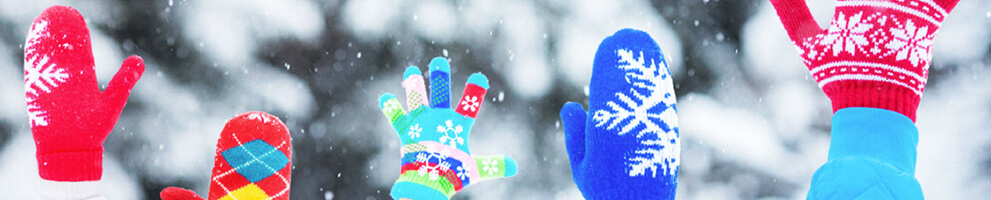
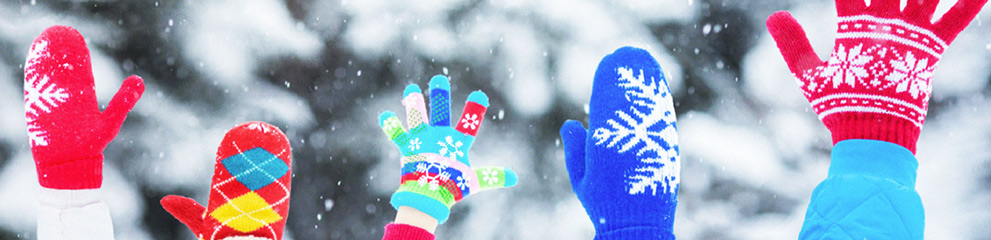
New images and small fix for slider

diff --git a/index.html b/index.html
@@ -99,46 +99,58 @@
         <div class="row justify-content-md-center">
           <div class="col-md-12 slider">
             <div class="owl-carousel">
-              <div>
+               <div>
                 <picture>
                   <source media="(max-width: 576px)" srcset="img/slide/mobile-slides/new-slide-1-576.jpg" sizes="">
-                  <!-- <source media="(max-width: 768px)" srcset="img/slide/mobile-slides/new-slide-1-768.jpg" sizes=""> -->
+                  <source media="(max-width: 767px) and (orientation: landscape)" srcset="img/slide/mobile-slides/new-slide-1-768-landscape.jpg" sizes="">
+                  <source media="(max-width: 767px)" srcset="img/slide/mobile-slides/new-slide-1-768.jpg" sizes="">
+                  <source media="(max-width: 991px) and (orientation: landscape)" srcset="img/slide/mobile-slides/new-slide-1-991-landscape.jpg" sizes="">
                   <source media="(max-width: 991px)" srcset="img/slide/mobile-slides/new-slide-1-991.jpg" sizes="">
+                  <source media="(max-width: 1200px) and (orientation: landscape)" srcset="img/slide/mobile-slides/new-slide-1-1200-landscape.jpg" sizes="">
                   <source media="(max-width: 1200px)" srcset="img/slide/mobile-slides/new-slide-1-1200.jpg" sizes="">
-                  <source media="(max-width: 1600px)" srcset="img/slide/mobile-slides/new-slide-1-1600.jpg" sizes="">
+                  <source media="(max-width: 1400px)" srcset="img/slide/mobile-slides/new-slide-1-1400.jpg" sizes="">
                   <img class="slider-bg" src="img/slide/new-slide-1.jpg" alt="slider-image-back-pack">
                 </picture>
                 <img class="sticker sticker-1" src="img/slide/stickers/sticker-1.png" alt="slider-sticker">
               </div>
               <div>
                 <picture>
-                  <source media="(max-width: 576px)" srcset="img/slide/mobile-slides/new-slide-2-576.jpg" sizes="">
-                  <!-- <source media="(max-width: 768px)" srcset="img/slide/mobile-slides/new-slide-2-768.jpg" sizes=""> -->
-                  <source media="(max-width: 991px)" srcset="img/slide/mobile-slides/new-slide-2-991.jpg" sizes="">
-                  <source media="(max-width: 1200px)" srcset="img/slide/mobile-slides/new-slide-2-1200.jpg" sizes="">
-                  <source media="(max-width: 1600px)" srcset="img/slide/mobile-slides/new-slide-2-1600.jpg" sizes="">
+                  <source media="(max-width: 576px) and (orientation: portrait)" srcset="img/slide/mobile-slides/new-slide-2-576.jpg" sizes="">
+                  <source media="(max-width: 767px) and (orientation: landscape)" srcset="img/slide/mobile-slides/new-slide-2-768-landscape.jpg" sizes="">
+                  <source media="(max-width: 767px) and (orientation: portrait)" srcset="img/slide/mobile-slides/new-slide-2-768.jpg" sizes="">
+                  <source media="(max-width: 991px) and (orientation: landscape)" srcset="img/slide/mobile-slides/new-slide-2-991-landscape.jpg" sizes="">
+                  <source media="(max-width: 991px) and (orientation: portrait)" srcset="img/slide/mobile-slides/new-slide-2-991.jpg" sizes="">
+                  <source media="(max-width: 1200px) and (orientation: landscape)" srcset="img/slide/mobile-slides/new-slide-2-1200-landscape.jpg" sizes="">
+                  <source media="(max-width: 1200px) and (orientation: portrait)" srcset="img/slide/mobile-slides/new-slide-2-1200.jpg" sizes="">
+                  <source media="(max-width: 1400px)" srcset="img/slide/mobile-slides/new-slide-2-1400.jpg" sizes="">
                   <img class="slider-bg" src="img/slide/new-slide-2.jpg" alt="slider-image-back-pack">
                 </picture>
                 <img class="sticker sticker-2" src="img/slide/stickers/sticker-2.png" alt="slider-sticker">
               </div>
               <div>
                 <picture>
-                  <source media="(max-width: 576px)" srcset="img/slide/mobile-slides/new-slide-3-576.jpg" sizes="">
-                  <!-- <source media="(max-width: 768px)" srcset="img/slide/mobile-slides/new-slide-3-768.jpg" sizes=""> -->
-                  <source media="(max-width: 991px)" srcset="img/slide/mobile-slides/new-slide-3-991.jpg" sizes="">
-                  <source media="(max-width: 1200px)" srcset="img/slide/mobile-slides/new-slide-3-1200.jpg" sizes="">
-                  <source media="(max-width: 1600px)" srcset="img/slide/mobile-slides/new-slide-3-1600.jpg" sizes="">
+                  <source media="(max-width: 576px) and (orientation: portrait)" srcset="img/slide/mobile-slides/3.jpg" sizes="">
+                  <source media="(max-width: 767px) and (orientation: landscape)" srcset="img/slide/mobile-slides/new-slide-3-768-landscape.jpg" sizes="">
+                  <source media="(max-width: 767px) and (orientation: portrait)" srcset="img/slide/mobile-slides/new-slide-3-768.jpg" sizes="">
+                  <source media="(max-width: 991px) and (orientation: landscape)" srcset="img/slide/mobile-slides/new-slide-3-991-landscape.jpg" sizes="">
+                  <source media="(max-width: 991px) and (orientation: portrait)" srcset="img/slide/mobile-slides/new-slide-3-991.jpg" sizes="">
+                  <source media="(max-width: 1200px) and (orientation: landscape)" srcset="img/slide/mobile-slides/new-slide-3-1200-landscape.jpg" sizes="">
+                  <source media="(max-width: 1200px) and (orientation: portrait)" srcset="img/slide/mobile-slides/new-slide-3-1200.jpg" sizes="">
+                  <source media="(max-width: 1400px)" srcset="img/slide/mobile-slides/new-slide-3-1400.jpg" sizes="">
                   <img class="slider-bg" src="img/slide/new-slide-3.jpg" alt="slider-image-back-pack">
                 </picture>
                 <img class="sticker sticker-3" src="img/slide/stickers/sticker-3.png" alt="slider-sticker">
               </div>
               <div>
                 <picture>
-                  <source media="(max-width: 576px)" srcset="img/slide/mobile-slides/new-slide-4-576.jpg" sizes="">
-                  <!-- <source media="(max-width: 768px)" srcset="img/slide/mobile-slides/new-slide-4-768.jpg" sizes=""> -->
-                  <source media="(max-width: 991px)" srcset="img/slide/mobile-slides/new-slide-4-991.jpg" sizes="">
-                  <source media="(max-width: 1200px)" srcset="img/slide/mobile-slides/new-slide-4-1200.jpg" sizes="">
-                  <source media="(max-width: 1600px)" srcset="img/slide/mobile-slides/new-slide-4-1600.jpg" sizes="">
+                  <source media="(max-width: 576px) and (orientation: portrait)" srcset="img/slide/mobile-slides/new-slide-4-576.jpg" sizes="">
+                  <source media="(max-width: 767px) and (orientation: landscape)" srcset="img/slide/mobile-slides/new-slide-4-768-landscape.jpg" sizes="">
+                  <source media="(max-width: 767px) and (orientation: portrait)" srcset="img/slide/mobile-slides/new-slide-4-768.jpg" sizes="">
+                  <source media="(max-width: 991px) and (orientation: landscape)" srcset="img/slide/mobile-slides/new-slide-4-991-landscape.jpg" sizes="">
+                  <source media="(max-width: 991px) and (orientation: portrait)" srcset="img/slide/mobile-slides/new-slide-4-991.jpg" sizes="">
+                  <source media="(max-width: 1200px) and (orientation: landscape)" srcset="img/slide/mobile-slides/new-slide-4-1200-landscape.jpg" sizes="">
+                  <source media="(max-width: 1200px) and (orientation: portrait)" srcset="img/slide/mobile-slides/new-slide-4-1200.jpg" sizes="">
+                  <source media="(max-width: 1400px)" srcset="img/slide/mobile-slides/new-slide-4-1400.jpg" sizes="">
                   <img class="slider-bg" src="img/slide/new-slide-4.jpg" alt="slider-image-back-pack">
                 </picture>
                 <img class="sticker sticker-4" src="img/slide/stickers/sticker-4.png" alt="slider-sticker">

diff --git a/css/style.css b/css/style.css
@@ -1480,6 +1480,9 @@ footer {
     #features .box-item .text h4 {
         line-height: 25px
     }
+    .slider-bg {
+        /* height: 350px */
+    }
     .sticker-1,
     .sticker-2,
     .sticker-3,
@@ -1489,7 +1492,7 @@ footer {
         margin-left: -200px
     }
     .sticker-3 {
-        width: 300px;
+        width: 200px;
         margin-left: -150px;
     }
 }
@@ -1499,7 +1502,7 @@ footer {
         font-size: 28px
     }
     .slider-bg {
-        height: 400px
+        /* height: 200px */
     }
     .sticker-1,
     .sticker-2,
@@ -1510,8 +1513,9 @@ footer {
         margin-left: -200px
     }
     .sticker-3 {
-        width: 300px;
-        margin-left: -150px;
+        top: 20px;
+        width: 200px;
+        margin-left: -300px;
     }
     .item-boxes h4 {
         font-size: 18px
@@ -1539,31 +1543,9 @@ footer {
         line-height: 20px
     }
 }
-@media only screen 
-and (min-device-width : 375px) 
-and (max-device-width : 812px) 
-and (-webkit-device-pixel-ratio : 3)
-and (orientation : landscape) { 
 
-  .slider-bg {
-    height: 200px;
-  }
-  .sticker-1,
-  .sticker-2,
-  .sticker-3,
-  .sticker-4 {
-      width: 400px;
-      left: 50%;
-      margin-left: -200px
-  }
-  .sticker-3 {
-      width: 300px;
-      margin-left: -150px;
-  }
 
-}
-
-@media only screen 
+/* @media only screen 
 and (min-device-width : 375px) 
 and (max-device-width : 667px) 
 and (orientation : landscape) { 
@@ -1582,12 +1564,12 @@ and (orientation : landscape) {
       width: 300px;
       margin-left: -150px;
   }
-}
+} */
 
 
 @media (max-width: 767px) {
     .slider-bg {
-        height: 300px
+        /* height: 300px */
     }
     .sticker-1,
     .sticker-2,
@@ -1599,7 +1581,7 @@ and (orientation : landscape) {
     }
     .sticker-3 {
         top: 40px;
-        width: 250px
+        width: 240px
     }
     .section-header .section-title {
         font-size: 20px
@@ -1662,11 +1644,11 @@ and (orientation : landscape) {
 
 @media(max-width: 576px) {
     .slider-bg {
-        height: 350px
+        /* height: 350px */
     }
 }
 
-@media (min-width : 320px) and (max-width : 1024px) and (orientation : landscape) { 
+/* @media (min-width : 320px) and (max-width : 812px) and (orientation : landscape) { 
   .slider-bg {
     height: 200px;
   }
@@ -1683,4 +1665,25 @@ and (orientation : landscape) {
       width: 160px;
       margin-left: -200px;
   }
+} */
+
+@media only screen 
+and (min-device-width : 375px) 
+and (max-device-width : 812px)
+and (orientation : landscape) { 
+  .sticker-1,
+  .sticker-2,
+  .sticker-3,
+  .sticker-4 {
+      top: 20px;
+      width: 300px;
+      left: 50%;
+      margin-left: -150px
+  }
+  .sticker-3 {
+      width: 180px;
+      margin-left: -250px;
+      top: 20px;
+  }
+
 }
